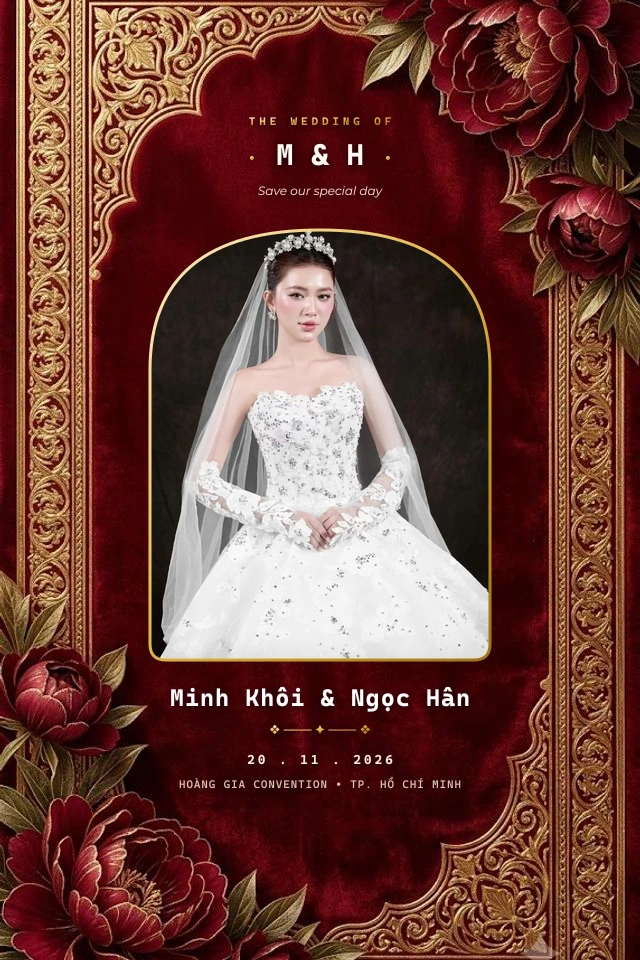
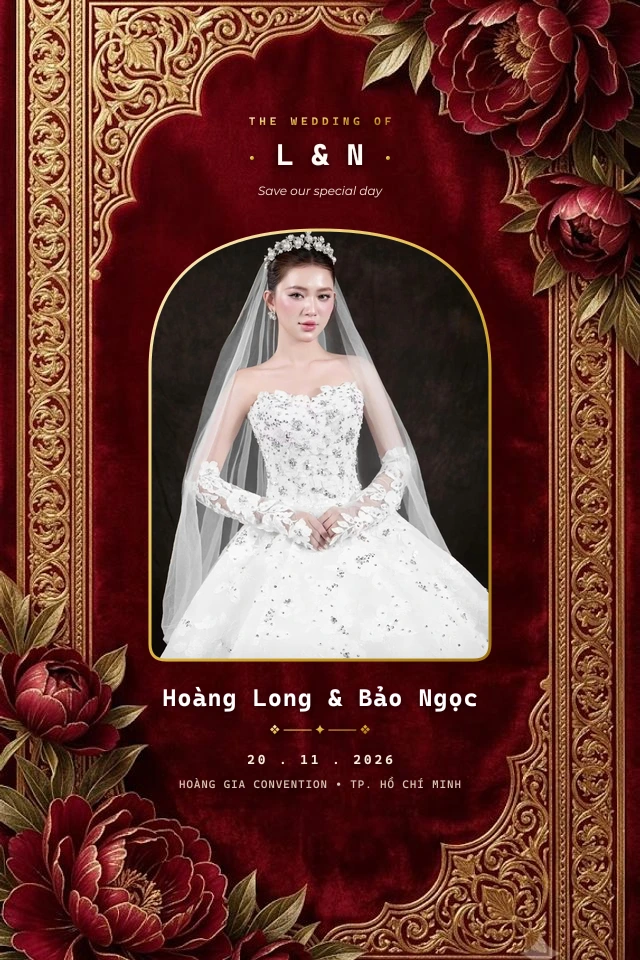
hj

Changed region(s): [[0.25, 0.7188, 0.75, 0.75], [0.5312, 0.1562, 0.5625, 0.1875], [0.4375, 0.1562, 0.4688, 0.1875]]

diff --git a/fe/src/lib/templates-data.ts b/fe/src/lib/templates-data.ts
@@ -302,4 +302,31 @@ export const MASTER_TEMPLATES: MasterTemplateItem[] = [
     salesCount: 650,
     hasLiveDemo: true,
   },
+
+  // ── 12. HOÀNG GIA NHUNG ĐỎ RƯỢU — ROYAL CRIMSON VELVET ──
+  {
+    id: "wedding-royal-crimson-velvet",
+    slug: "wedding-royal-crimson-velvet",
+    demoSlug: "wedding-royal-crimson-velvet",
+    name: "Hoàng Gia Nhung Đỏ Rượu — Royal Crimson Velvet",
+    category: "WEDDING",
+    style: "Cổ Điển Hoàng Gia",
+    price: "299.000đ",
+    originalPrice: "490.000đ",
+    imageUrl: "/images/templates/cover-12-royal-crimson.webp",
+    isNew: true,
+    description: "Sắc đỏ nhung quý tộc kết hợp mạ vàng hoàng gia, Photobook 3D lật trang da hạt, khung timeline đón khách 4 mốc giờ, quy chuẩn dress code và hộp mừng cưới VietQR.",
+    tags: ["Nhung Đỏ", "Hoàng Gia", "Photobook 3D", "Dress Code"],
+    features: ["Photobook 3D lật trang da hạt", "Lịch trình tiệc 4 mốc giờ", "Dress code 4 tone màu", "Hộp mừng cưới VietQR", "Sổ lưu bút trực tuyến"],
+    colorPalette: ["#4A121A", "#8F3B44", "#CCA24C", "#EFE8DE"],
+    envelopeColor: "#4A121A",
+    musicTitle: "Lễ Đường Tình Yêu (Nhạc Cổ Điển)",
+    musicUrl: "/music/le-duong.mp3",
+    coupleText: "Hoàng Long & Bảo Ngọc",
+    eventDateText: "03.01.2026",
+    venueText: "Trung Tâm Hội Nghị White Palace, TP. Hồ Chí Minh",
+    rating: 5,
+    salesCount: 780,
+    hasLiveDemo: true,
+  },
 ];

diff --git a/fe/src/components/shared/TemplateDetailModal.tsx b/fe/src/components/shared/TemplateDetailModal.tsx
@@ -239,6 +239,24 @@ const TEMPLATE_REFERENCE_PARTS: Record<
       },
     ],
   },
+  "wedding-royal-crimson-velvet": {
+    groom: "Hoàng Long",
+    bride: "Bảo Ngọc",
+    date: "03.01.2026",
+    venue: "Trung Tâm Hội Nghị White Palace, TP. Hồ Chí Minh",
+    parts: [
+      {
+        label: "Phần 1: Bìa Nhung Đỏ & Photobook 3D",
+        url: "/images/templates/cover-12-royal-crimson.webp",
+        desc: "Sắc đỏ nhung quý tộc kết hợp mạ vàng hoàng gia, Photobook 3D lật trang da hạt tương tác chân thực.",
+      },
+      {
+        label: "Phần 2: Lễ Cưới & Dress Code",
+        url: "/images/demo/templates/t12-royal-crimson/cover.jpg",
+        desc: "Lễ thành hôn & tiệc cưới trang trọng, bảng màu Dress Code 4 tone chuẩn mực và bản đồ chỉ đường.",
+      },
+    ],
+  },
 };
 
 export const TemplateDetailModal: React.FC<TemplateDetailModalProps> = ({

diff --git a/fe/src/app/(public)/collections/page.tsx b/fe/src/app/(public)/collections/page.tsx
@@ -244,7 +244,7 @@ export default function CollectionsPage() {
   const TEMPLATES = MASTER_TEMPLATES;
 
   const styles = [
-    { id: "ALL", label: t("styleAll") || "Tất Cả Mẫu Cưới (9)" },
+    { id: "ALL", label: `Tất Cả Mẫu Cưới (${TEMPLATES.length})` },
     { id: "Cổ Điển Hoàng Gia", label: t("styleRoyalClassic") || "Cổ Điển Hoàng Gia" },
     { id: "Minimalist Luxury", label: t("styleMinimalistLuxury") || "Tối Giản Sang Trọng" },
     { id: "Floral Romance", label: t("styleFloralRomance") || "Hoa Cỏ Lãng Mạn" },

diff --git a/fe/src/lib/editor/template-registry.ts b/fe/src/lib/editor/template-registry.ts
@@ -70,6 +70,9 @@ const REGISTRY: Record<string, readonly EditorField[]> = {
   "wedding-cinematic-editorial": WEDDING_FIELDS,
   "wedding-alpine-lake-romance": WEDDING_FIELDS,
   "wedding-imperial-dragon-crimson": WEDDING_FIELDS,
+  "wedding-nha-co-hy": WEDDING_FIELDS,
+  "wedding-sage-garden-glass": WEDDING_FIELDS,
+  "wedding-royal-crimson-velvet": WEDDING_FIELDS,
   // CÁC MẪU CŨ VÀ KHÁC
   "wedding-minimalist-gold": WEDDING_FIELDS,
   "wedding-hong-xanh-luxury": WEDDING_FIELDS,
